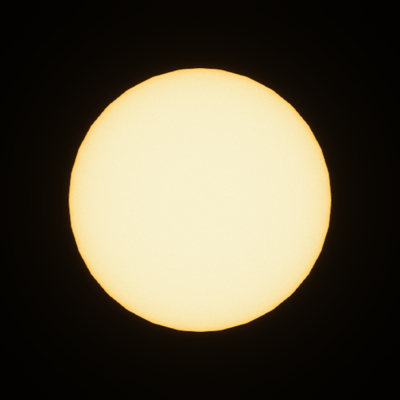
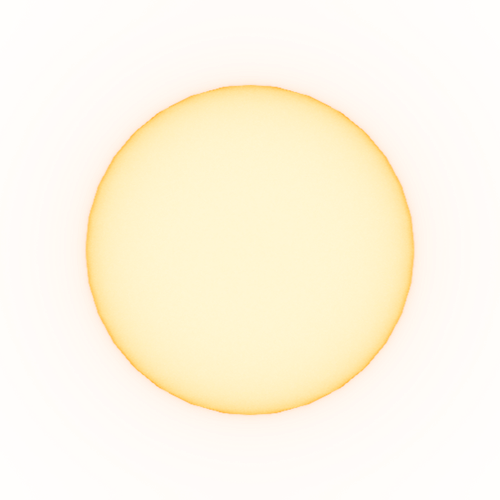
fix(environment): correct moon/sun compositing bug, resize, and sparkle stars
The sun/moon opacity fade (for day/night crossfade) isolates any child
mix-blend-mode into its own compositing group per the CSS spec, so it
couldn't blend against the real page behind it -- the pure-black render
background stayed opaque and showed as a translucent box. Fixed by
converting both renders to real alpha transparency (alpha derived from
brightness) instead of relying on blend-mode, so they composite normally
and correctly respect the opacity fade.

Also: enlarged and repositioned the sun/moon further into the corner,
re-rendered the moon with a thicker/wider crescent and a tilted, zoomed-in
composition, and replaced the plain blurred-circle stars with a real
4-point sparkle shape -- same star count and twinkle timing, only the
draw shape changed.

diff --git a/apps/web/src/components/environment/galaxy-engine.js b/apps/web/src/components/environment/galaxy-engine.js
@@ -54,18 +54,39 @@ export function drawStarField(ctx, stars, { width, height, elapsedSeconds, color
     if (opacity <= 0.02) continue;
     const x = st.x * width + parallaxX;
     const y = st.y * height + parallaxY;
-    const alpha = Math.max(0, Math.min(1, opacity)).toFixed(3);
-    // Soft glow so a star reads as a small point of light rather than a
-    // flat dot — cheap (one extra shadow per star, no extra draw calls).
+    const alpha = Math.max(0, Math.min(1, opacity));
+    const colorStr = `rgba(${color},${alpha.toFixed(3)})`;
+
+    // Real-looking star: a small bright core plus four tapered points —
+    // the classic sparkle/diffraction-spike look of an actual bright star
+    // — instead of a flat blurred dot. A little shadowBlur still softens
+    // the core so it doesn't look like a hard vector icon, but the sparkle
+    // shape (not the blur) is what reads as "real" now.
     if (glow) {
-      ctx.shadowColor = `rgba(${color},${alpha})`;
-      ctx.shadowBlur = st.r * 5.5;
+      ctx.shadowColor = colorStr;
+      ctx.shadowBlur = st.r * 2.2;
     } else {
       ctx.shadowBlur = 0;
     }
+
+    const tip = st.r * 3.4;
+    const inner = st.r * 0.85;
     ctx.beginPath();
-    ctx.fillStyle = `rgba(${color},${alpha})`;
-    ctx.arc(x, y, st.r, 0, TWO_PI);
+    ctx.moveTo(x, y - tip);
+    ctx.lineTo(x + inner, y - inner);
+    ctx.lineTo(x + tip, y);
+    ctx.lineTo(x + inner, y + inner);
+    ctx.lineTo(x, y + tip);
+    ctx.lineTo(x - inner, y + inner);
+    ctx.lineTo(x - tip, y);
+    ctx.lineTo(x - inner, y - inner);
+    ctx.closePath();
+    ctx.fillStyle = colorStr;
+    ctx.fill();
+
+    // Bright pinpoint core on top so small/dim stars still read crisply.
+    ctx.beginPath();
+    ctx.arc(x, y, st.r * 0.42, 0, TWO_PI);
     ctx.fill();
   }
   if (glow) ctx.shadowBlur = 0;

diff --git a/apps/web/src/components/environment/environment.css b/apps/web/src/components/environment/environment.css
@@ -60,10 +60,10 @@
 .galaxy-environment__moon,
 .galaxy-environment__sun {
   position: absolute;
-  top: 6%;
-  right: 14%;
-  width: clamp(64px, 11vmin, 140px);
-  height: clamp(64px, 11vmin, 140px);
+  top: 3%;
+  right: 4%;
+  width: clamp(110px, 18vmin, 260px);
+  height: clamp(110px, 18vmin, 260px);
   border-radius: 50%;
   transform: translate3d(0, var(--galaxy-moon-scroll-offset, 0px), 0);
   will-change: opacity, transform;
@@ -83,13 +83,16 @@
   /* No border-radius clip here — the rendered asset is a square composition
      (real lit crescent + its nested companion star, pushed to the right of
      the opening) and a circular clip inscribed in the square would cut the
-     star off. mix-blend-mode: screen drops the render's pure-black backdrop
-     against the environment behind it, so only the crescent/star glow show. */
+     star off. The PNG itself now carries a real alpha channel (converted
+     from the raw black-background render, alpha = brightness) instead of
+     relying on mix-blend-mode: screen -- that approach broke as soon as it
+     sat under this element's `opacity` fade, since opacity < 1 isolates
+     blend modes into their own compositing group, unable to blend with the
+     real page behind it. Real alpha has no such issue. */
   background-image: url("/environment/moon.png");
   background-size: cover;
   background-position: center;
   background-repeat: no-repeat;
-  mix-blend-mode: screen;
 }
 
 .galaxy-environment__moon-shadow {
@@ -156,7 +159,6 @@
   background-size: cover;
   background-position: center;
   background-repeat: no-repeat;
-  mix-blend-mode: screen;
   box-shadow:
     inset -10px -8px 22px rgba(190, 55, 10, 0.4),
     0 0 34px 5px rgba(255, 222, 145, 0.65),
